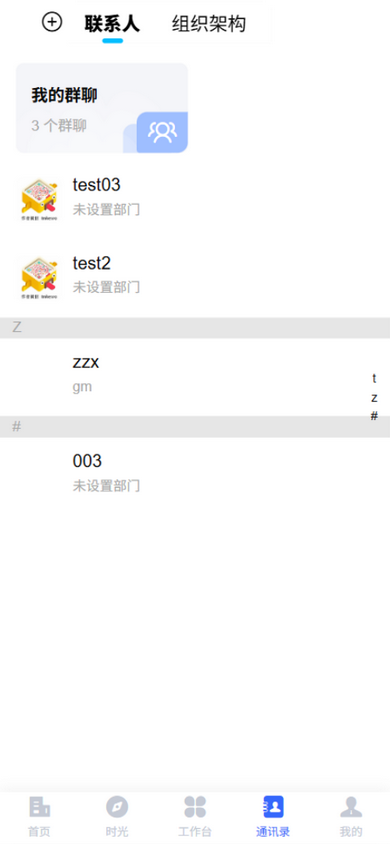
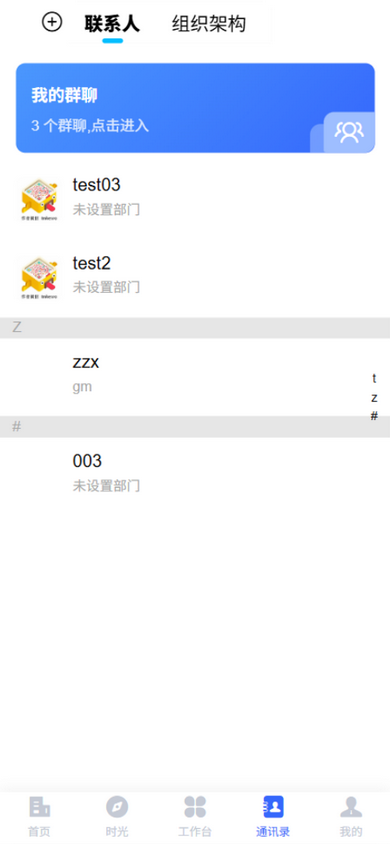
feat: 移动端首页 UI 改版,通讯录群聊卡片渐变
- 首页: 渐变欢迎横幅(问候+日期)、搜索条、快捷入口卡片化(彩色渐变图标)、消息列表卡片化
- 通讯录: 我的群聊卡片改为品牌蓝渐变,去除外部图床依赖
- 时光/工作台/通讯录 tab 数据改为 onShow 刷新

Changed region(s): [[0.0308, 0.0616, 0.9846, 0.1848]]

diff --git a/uniapp_h5/pages/home/home.vue b/uniapp_h5/pages/home/home.vue
@@ -1,40 +1,47 @@
 <template>
 	<view class="template-home tn-safe-area-inset-bottom">
-    <!-- 顶部自定义导航 -->
-    <tn-navbar fixed :bottomShadow="false" bg-color="#FFFFFF00" backText="" backIcon="" homeIcon="" >
-      <template v-slot:back>
-        <view class="custom-nav tn-flex tn-flex-col-center tn-flex-row-left">
-          <view class="custom-nav__back">
-            <tn-icon name="search-menu" @click="tn('/homePages/search')"></tn-icon>
+    <!-- 顶部渐变欢迎区 -->
+    <view class="home-banner">
+      <tn-navbar fixed :bottomShadow="false" bg-color="#FFFFFF00" backText="" backIcon="" homeIcon="" >
+        <template v-slot:back>
+          <view class="custom-nav tn-flex tn-flex-col-center tn-flex-row-right">
+            <view class="custom-nav__back">
+              <tn-icon name="search-menu" class="tn-color-white" @click="tn('/homePages/search')"></tn-icon>
+            </view>
           </view>
-        </view>
-      </template>
-    </tn-navbar>
-    
-    <!-- 方式1 start-->
-    <view class="tn-flex home-fixed" :style="{paddingTop: vuex_custom_bar_height + 'px'}">
-      <view
-        v-for="item in shortcutList"
-        :key="item.title"
-        class="home-shortcut tn-padding-sm tn-margin-xs tn-radius"
-        @click="tn(item.url)"
-      >
-        <view class="tn-flex tn-flex-direction-column tn-flex-row-center tn-flex-col-center">
-          <view class="icon1__item--icon tn-flex tn-flex-row-center tn-flex-col-center tn-bg-white tn-color-black">
-            <tn-badge v-if="item.badge" :value="item.badge" type="danger">
-              <tn-icon :name="item.icon"></tn-icon>
-            </tn-badge>
-            <tn-icon v-else :name="item.icon"></tn-icon>
-          </view>  
-          <view class="tn-color-gray--dark tn-text-center">
-            <text class="tn-text-ellipsis">{{ item.title }}</text>
-          </view>
-        </view>
+        </template>
+      </tn-navbar>
+      <view class="home-banner__greeting" :style="{ paddingTop: (vuex_custom_bar_height - 44) + 'px' }">
+        <view class="tn-text-xl tn-text-bold tn-color-white">{{ greetingText }},{{ userName }}</view>
+        <view class="tn-color-white tn-padding-top-xs home-banner__date">{{ todayText }}</view>
+      </view>
+      <view class="home-search" @click="tn('/homePages/search')">
+        <tn-icon name="search" class="tn-color-gray"></tn-icon>
+        <text class="tn-color-gray tn-padding-left-xs">搜索同事、公告、功能</text>
       </view>
     </view>
-    <!-- 方式1 end-->
-    
-    <view class="tn-margin-top-sm" :style="{paddingTop: vuex_custom_bar_height +'px'}" style="max-width: 640px; margin: 0 auto;">
+
+    <!-- 快捷入口 -->
+    <view class="home-shortcuts tn-radius tn-bg-white">
+      <view
+        v-for="(item, index) in shortcutList"
+        :key="item.title"
+        class="home-shortcut"
+        @click="tn(item.url)"
+      >
+        <view class="home-shortcut__icon" :style="{ backgroundColor: shortcutColors[index % shortcutColors.length] }">
+          <tn-badge v-if="item.badge" :value="item.badge" type="danger">
+            <tn-icon :name="item.icon" class="tn-color-white"></tn-icon>
+          </tn-badge>
+          <tn-icon v-else :name="item.icon" class="tn-color-white"></tn-icon>
+        </view>
+        <text class="home-shortcut__title tn-color-gray--dark">{{ item.title }}</text>
+      </view>
+    </view>
+
+    <!-- 消息列表 -->
+    <view class="home-messages tn-radius tn-bg-white">
+      <view class="home-messages__head tn-text-bold">消息动态</view>
       <view class="">
         <view
           v-for="item in messageList"
@@ -81,7 +88,7 @@
       </view>
 
     </view>
-    
+
     <view class="tn-tabbar-height"></view>
     
 	</view>
@@ -98,6 +105,23 @@
   const store = useStore()
   // 使用 computed 保持响应式
   const vuex_custom_bar_height = computed(() => store.state.vuex_custom_bar_height)
+
+  const userName = computed(() => store.state.user?.name || '同事')
+  const greetingText = computed(() => {
+    const hour = new Date().getHours()
+    if (hour < 6) return '夜深了'
+    if (hour < 9) return '早上好'
+    if (hour < 12) return '上午好'
+    if (hour < 14) return '中午好'
+    if (hour < 18) return '下午好'
+    return '晚上好'
+  })
+  const todayText = computed(() => {
+    const now = new Date()
+    const weeks = ['日', '一', '二', '三', '四', '五', '六']
+    return `${now.getMonth() + 1}月${now.getDate()}日 星期${weeks[now.getDay()]}`
+  })
+  const shortcutColors = ['#4B98FE', '#00C8B0', '#FFAC00', '#957BFE']
 
   const stats = ref({
     pendingCount: 0,
@@ -269,9 +293,16 @@
     
     &__back {
       margin: auto 5rpx;
-      font-size: 45rpx;
+      font-size: 40rpx;
       margin-right: 10rpx;
       margin-left: 30rpx;
+      width: 64rpx;
+      height: 64rpx;
+      border-radius: 50%;
+      background-color: rgba(255, 255, 255, 0.2);
+      display: flex;
+      align-items: center;
+      justify-content: center;
     }
   }
   /* 自定义导航栏内容 end */
@@ -313,29 +344,77 @@
   }
   
   
-  // 四个角渐变底色
-  .home-fixed{
+  // 顶部渐变欢迎区
+  .home-banner{
     max-width: 640px;
-    position: fixed;
-    background: linear-gradient(90deg, #DBF2FE, #FFE1E1);
-    top: 0;
-    width: 100%;
-    left: 50%;
-    transform: translateX(-50%);
-    justify-content: space-around;
-    box-sizing: border-box;
-    transition: all 0.25s ease-out;
-    z-index: 100;
+    margin: 0 auto;
+    background: linear-gradient(135deg, #4B98FE 0%, #3668FC 100%);
+    border-radius: 0 0 36rpx 36rpx;
+    padding-bottom: 70rpx;
   }
-  .home-shortcut {
-    flex: 0 0 20%;
-    max-width: 128px;
-    box-sizing: border-box;
+  .home-banner__greeting{
+    padding: 10rpx 36rpx 0;
+  }
+  .home-banner__date{
+    font-size: 24rpx;
+  }
+  .home-search{
+    margin: 30rpx 36rpx 0;
+    height: 76rpx;
+    background-color: #FFFFFF;
+    border-radius: 100rpx;
+    display: flex;
+    align-items: center;
+    padding: 0 30rpx;
+    font-size: 26rpx;
+    box-shadow: 0 8rpx 24rpx rgba(29, 37, 65, 0.08);
+  }
+  // 快捷入口卡片
+  .home-shortcuts{
+    max-width: 600px;
+    margin: -50rpx auto 0;
+    position: relative;
+    z-index: 2;
+    display: flex;
+    padding: 30rpx 10rpx 24rpx;
+    box-shadow: 0 10rpx 30rpx rgba(29, 37, 65, 0.06);
+  }
+  .home-shortcut{
+    flex: 1;
+    display: flex;
+    flex-direction: column;
+    align-items: center;
+  }
+  .home-shortcut__icon{
+    width: 92rpx;
+    height: 92rpx;
+    border-radius: 32rpx;
+    display: flex;
+    align-items: center;
+    justify-content: center;
+    font-size: 44rpx;
+    margin-bottom: 12rpx;
+  }
+  .home-shortcut__title{
+    font-size: 26rpx;
+  }
+  // 消息卡片
+  .home-messages{
+    max-width: 600px;
+    margin: 24rpx auto 30rpx;
+    padding: 26rpx 0 10rpx;
+    box-shadow: 0 10rpx 30rpx rgba(29, 37, 65, 0.06);
+  }
+  .home-messages__head{
+    padding: 0 30rpx 10rpx;
+    font-size: 30rpx;
+    color: #1D2541;
   }
 
   .home-message-item {
     height: 110rpx;
-    margin: 24rpx 30rpx;
+    margin: 0 30rpx;
+    border-bottom: 1rpx solid #F3F2F7;
     overflow: hidden;
   }
 
@@ -378,19 +457,6 @@
     flex-flow: column;
     align-items: flex-end;
   }
-  .home-fixed:before{
-    content: "";
-    position: absolute;
-    top: 0;
-    left: 0;
-    bottom: 0;
-    right: 0;
-    z-index: -1;
-    mask-image: linear-gradient(to bottom, transparent, black);
-    background: linear-gradient(90deg, #FFFFFF, #FFFFFF);	
-
-  }
-  
   /* OA黑色*/
   .color-tnoa{
     color: #1D2541;

diff --git a/uniapp_h5/pages/partner/partner.vue b/uniapp_h5/pages/partner/partner.vue
@@ -27,8 +27,7 @@
         class="tn-info__container tn-flex tn-flex-wrap tn-flex-col-center tn-flex-row-between tn-margin-left tn-margin-right tn-margin-top tn-margin-bottom-sm"
       >
         <view
-          class="tn-info__item tn-flex tn-flex-direction-row tn-flex-col-center tn-flex-row-between"
-          style="background-color: #f4f5f9"
+          class="tn-info__item group-card tn-flex tn-flex-direction-row tn-flex-col-center tn-flex-row-between"
           @click="tn('/partnerPages/group')"
         >
           <view
@@ -36,12 +35,13 @@
           >
             <view class="tn-info__item__left__content">
               <view
-                class="tn-info__item__left__content--title tn-text-bold tn-text-lg"
+                class="tn-info__item__left__content--title tn-text-bold tn-text-lg tn-color-white"
                 >我的群聊</view
               >
               <view
-                class="tn-info__item__left__content--data tn-padding-top-xs tn-color-gray"
-                >{{ groupCount }} 个群聊</view
+                class="tn-info__item__left__content--data tn-padding-top-xs tn-color-white"
+                style="opacity: .85"
+                >{{ groupCount }} 个群聊,点击进入</view
               >
             </view>
           </view>
@@ -517,6 +517,21 @@ onShow(() => {
     }
   }
 }
+/* 群聊卡片 */
+.group-card {
+  width: 100%;
+  background: linear-gradient(135deg, #4B98FE 0%, #3668FC 100%);
+  border-radius: 18rpx;
+}
+
+.group-card::after {
+  display: none;
+}
+
+.group-card .tn-info__item__right--icon {
+  color: #ffffff !important;
+}
+
 /* 信息展示 end */
 
 /* 图标容器15 start */
